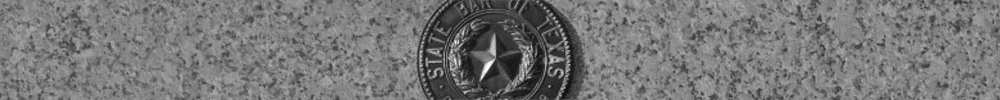
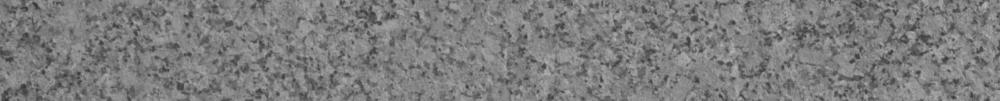
finished with header placements

diff --git a/src/app/header/header.component.scss b/src/app/header/header.component.scss
@@ -1,25 +1,9 @@
 $dark-blue: #26313e;
 $background-blue: #469;
-.contact {
-  font-size: 1.0rem;
-  //font-family: 'Lusitana', serif;
-  font-family: 'Times New Roman';
-  position:absolute;
-  width:100%;
-  bottom:0;
-  right:0;
-  text-align:right;
-  background-color:$background-blue;
-  margin: 0;
-}
+$navigation-color:#666;
 
 .clear-fix {
   clear: both;
-}
-
-.contact-container {
-  height:130px;
-  position:relative;
 }
 
 .dropdown {
@@ -35,6 +19,12 @@ $background-blue: #469;
 
 .dropdown-container {
   margin-top:5px;
+}
+
+.facebook {
+  height:18px;
+  width:18px;
+  margin-right:5px;
 }
 
 .header-link {
@@ -56,34 +46,6 @@ $background-blue: #469;
   margin-bottom: 5px;
 }
 
-.fancy-font-container {
-  height:80px;
-  position:relative;
-}
-
-.fancy-font {
-  font-family: 'Pinyon Script', cursive;
-  font-size:2.0rem;
-  letter-spacing: 0.1rem;
-  margin-bottom:0px;
-  margin-top:0px;
-  position:absolute;
-  width:100%;
-  bottom:0;
-}
-
-.header-left {
-  float:left;
-  background-color:#444;
-  width:65%;
-}
-
-.header-right {
-  float:right;
-  position:relative;
-  width:30%
-}
-
 .line-2px {
   background-color:$dark-blue;
   width: 100%;
@@ -102,9 +64,39 @@ $background-blue: #469;
   position:relative;
 }
 
-.marble-header-img {
-  width:100%;
+.marble-image {
+  position:absolute;
   height:70px;
+  width:100%;
+  top:0;
+  left:0;
+  margin:0;
+  margin-right:0;
+  transform: translate(0, 0);
+}
+
+.medium-links-container {
+  background-color:$dark-blue;
+  width:100%;
+  height:30px;
+}
+
+.medium-link {
+  margin:0;
+  float:left;
+  font-family: Times, serif;
+  font-size:1.0rem;
+  width:25%;
+}
+
+.state-emblem {
+  position:absolute;
+  height:70px;
+  top:50%;
+  left:50%;
+  margin:0;
+  margin-right:-50%;
+  transform: translate(-50%, -50%);
 }
 
 .menu-icon {
@@ -151,6 +143,66 @@ $background-blue: #469;
 .material-icons.md-36 { font-size: 36px; }
 .material-icons.md-48 { font-size: 48px; }
 
+.medium-contacts-container {
+  display:inline-block;
+  float:right;
+  padding-top:15px;
+  width:24%;
+  text-align:right;
+  font-family: Times, serif;
+  font-size:1.0rem;
+  line-height: 1.3rem;
+}
+
+.medium-office-maldonado-title {
+  font-family: Times, serif;
+  font-size:2.5rem;
+  letter-spacing: 0.1rem;
+  line-height:2.3rem;
+}
+
+.medium-office-title-container {
+  width:74%;
+  display:inline-block;
+  height:95px;
+}
+
+.medium-office-title {
+  font-family: 'Pinyon Script', cursive;
+  font-size:2.0rem;
+  letter-spacing: 0.1rem;
+}
+
+.medium-page-links {
+  height:3.0rem;
+  background-color:$navigation-color;
+  width:100%;
+}
+
+.medium-page-link {
+  font-family: Times, serif;
+  font-size:1.2rem;
+  float:left;
+  width:20%;
+  text-align:center;
+  line-height:1.2rem;
+  padding-top:.4rem;
+}
+
+.medium-page-link-vert {
+  font-family: Times, serif;
+  font-size:1.2rem;
+  float:left;
+  width:20%;
+  text-align:center;
+  padding-top:.74rem;
+}
+
+
+.small {
+  display:none;
+}
+
 .small-link-container {
   float:left;
   width:25%;
@@ -176,24 +228,21 @@ $background-blue: #469;
 }
 
 .small-maldonado-title-container {
-  height:90px;
-  position:relative;
+  height:102px;
 }
 
 .small-maldonado-title {
   font-family: Times, serif;
   font-size:2.5rem;
   letter-spacing: 0.1rem;
-  position:absolute;
-  top:0%;
-  left:50%;
-  margin:0;
-  margin-right:-50%;
-  transform: translate(-50%, 25%);
+  line-height:2.3rem;
+  height:102px;
+  text-align:center;
+  margin:16px 0 0 0;
 }
 
 .small-office-title-container {
-  height:75px;
+  height:65px;
   position:relative;
   //background-color:#daa;
 }
@@ -221,14 +270,26 @@ $background-blue: #469;
   margin-bottom:2px;
 }
 
-.state-emblem {
-  position:absolute;
-  height:70px;
-  top:50%;
-  left:50%;
-  margin:0;
-  margin-right:-50%;
-  transform: translate(-50%, -50%);
+
+@media (min-width: 387px) {
+  .small-maldonado-title-container {
+    height:80px;
+  }
+
+  .small-maldonado-title {
+    font-size:2.5rem;
+    letter-spacing: 0.1rem;
+    height:80px;
+  }
+
+  .small-office-title {
+    font-size:2.0rem;
+    letter-spacing: 0.1rem;
+  }
+
+  .small-office-title-container {
+    height:75px;
+  }
 }
 
 @media (min-width: 576px) {
@@ -244,6 +305,7 @@ $background-blue: #469;
   .medium {
     display: block;
   }
+
 
   .small {
     display: none;

diff --git a/src/app/header/header.component.html b/src/app/header/header.component.html
@@ -31,18 +31,25 @@
   </section>
   <section class="line-2px">
   </section>
+  <section class="small-office-title-container">
+    <h1 class="small-office-title">The Law Office of</h1>
+  </section>
+  <section class="small-maldonado-title-container">
+    <h1 class="small-maldonado-title">Ricardo Maldonado</h1>
+  </section>
+  <section class="clear-fix">
+  </section>
+  <section class="line-2px">
+  </section>
 </section>
 
 
 <section class="small">
-  <section>
-    {{width}}
-  </section>
   <section class="line-1px">
   </section>
   <section class="marble-header">
-    <img src = "/assets/marble-header.png" alt="marble-header.png" class="marble-header-img">
-    <img src = "/assets/marble-header.png" alt="state-emblem.png" class="state-emblem">
+    <img src = "/assets/marble-header.png" alt="marble-header.png" class="marble-image">
+    <img src = "/assets/state-bar-emblem.png" alt="state-emblem.png" class="state-emblem">
   </section>
   <section class="line-1px">
   </section>
@@ -78,28 +85,36 @@
 
 
 <section class="medium">
-  <section class="header-left">
-    <section class="fancy-font-container">
-      <h1 class="fancy-font">
-        Law Office of
-      </h1>
+  <section class="medium-office-title-container" style="padding-top:40px">
+    <section class="medium-office-title">
+      The Law Office of
     </section>
-
-    <section class="maldonado-title-container">
-      <h1 class="maldonado-title">
-        Ricardo Maldonado
-      </h1>
+    <section class="medium-office-maldonado-title" style="padding-top:5px">
+      Ricardo Maldonado
     </section>
   </section>
-  <section class="header-right">
-    <section class="contact-container">
-      <h5 class="contact">
-        512-850-9005<br>
-        812 San Antonio St.<br>
-        Suite 118<br>
-        Austin, TX 78701<br>
-        on facebook
-      </h5>
+  <section class="medium-contacts-container">
+    512-850-9005<br>
+    812 San Antonio St.<br>
+    Suite 118<br>
+    Austin, TX 78701<br>
+    find us on <img src = "/assets/facebook-100x100.png" alt="facebook.png" class="facebook">
+  </section>
+  <section class="medium-page-links">
+    <section class="medium-page-link-vert">
+      Home
+    </section>
+    <section class="medium-page-link">
+      DWI/<br>Criminal
+    </section>
+    <section class="medium-page-link-vert">
+      Immigration
+    </section>
+    <section class="medium-page-link">
+      Contact/<br>Directions
+    </section>
+    <section class="medium-page-link">
+      en<br>Español
     </section>
   </section>
 </section>

diff --git a/src/app/home/home.component.ts b/src/app/home/home.component.ts
@@ -1,4 +1,4 @@
-import { Component, OnInit } from '@angular/core';
+import {Component, HostListener, OnInit} from '@angular/core';
 
 @Component({
   selector: 'app-home',
@@ -6,10 +6,17 @@ import { Component, OnInit } from '@angular/core';
   styleUrls: ['./home.component.scss']
 })
 export class HomeComponent implements OnInit {
+  width: number;
 
   constructor() { }
 
   ngOnInit() {
+    this.width = window.innerWidth;
+  }
+
+  @HostListener('window:resize', ['$event'])
+  onResize(event) {
+    this.width = window.innerWidth;
   }
 
 }

diff --git a/src/app/home/home.component.html b/src/app/home/home.component.html
@@ -1,1 +1,4 @@
+<section style="position:absolute; z-index:5;">
+  {{width}}
+</section>
 <app-header></app-header>
